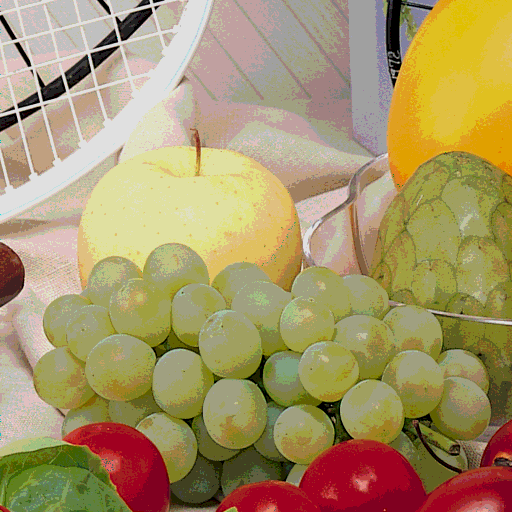
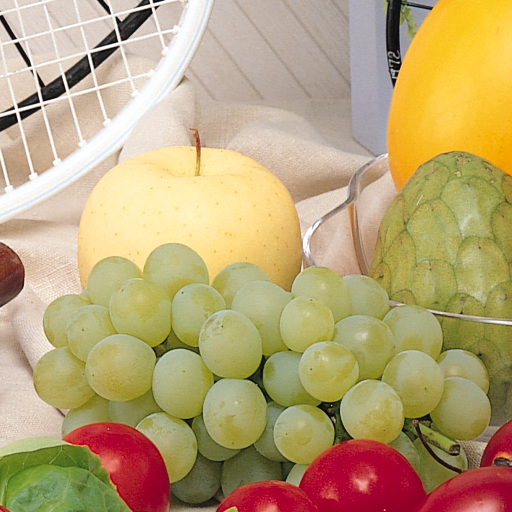
Funçao Desfocar

diff --git a/Imageomatic.c b/Imageomatic.c
@@ -364,40 +364,63 @@ int averageColor(Byte color, int sum, int count) {
 	return avColor;
 }
 
+
 Int2 imageBlur(Image img, Int2 n, int nivel, Image res)
 {
 	Int2 i;
-	Int2 i2;
-	int sum = 0;
-	int count= 0;
-
+	int size = 2*nivel +1;
+	double rn=0;
+	double gn=0;
+	double bn=0;
 	for(i.y=0;i.y<n.y; i.y++){
 		for(i.x=0;i.x<n.x; i.x++){
-			Pixel newI = img[i.x][i.y];
-			
-			//verificar se nao pega pixel fora da imagem??
-			
-			for(i2.y-nivel; i2.y+nivel; i2.y++){
-				for(i2.x-nivel; i2.x+nivel; i2.x++){
-					sum = sum + int2(i2.y, i2.x);
-					count++;
+			// Inicialização das variaveis para a subMatix
+			Int2 iSub;
+			Pixel p;
+			Pixel pResult;
+			pResult.red =0;
+			pResult.green =0;
+			pResult.blue =0;
+
+			int sumResult=0;
+			// percorrer a subMatrix 
+			for(iSub.y=(i.y-nivel);iSub.y<size; iSub.y++){
+				if(iSub.y>=0 && iSub.y<n.y){
+					for(iSub.x=(i.x-nivel);iSub.x<size; iSub.x++){
+						if (iSub.x>=0 && iSub.x<n.x){
+							/* code */
+							p = img[iSub.x][iSub.y];
+							rn = rn+ p.red;
+							gn = gn + p.green;
+							bn = bn + p.blue;
+							sumResult++;
+							printf("pixel: %d %d %d ) %f %f %f %i\n",p.red,p.green,p.blue,rn,gn,bn,sumResult);
+
+						}
+						
+					}
 				}
 			}
-
-			newI.red = averageColor(newI.red, sum, count);
-			newI.green = averageColor(newI.green, sum, count);
-			newI.blue = averageColor(newI.blue, sum, count);
 			
-			res[i.x][i.y] = newI;
+			double r = (rn)/sumResult;
+			double g = (gn)/sumResult;
+			double b = (bn)/sumResult;
+
+			pResult.red =r;
+			pResult.green =g;
+			pResult.blue =b;
+			res[i.x][i.y] = pResult;
+			//printf("%d %d %d %i\n",pResult.red,pResult.green,pResult.blue,sumResult);
+
+			//fim do fetch da SubMatrix
+
 		}
 	}
 
 	return n;
 }
 
-
-Int2 imageHalf(Image img, Int2 n, Image res)
-{
+Int2 imageHalf(Image img, Int2 n, Image res){
 	Int2 i;
 	Int2 i2;
 	Int2 nFinal = n;
